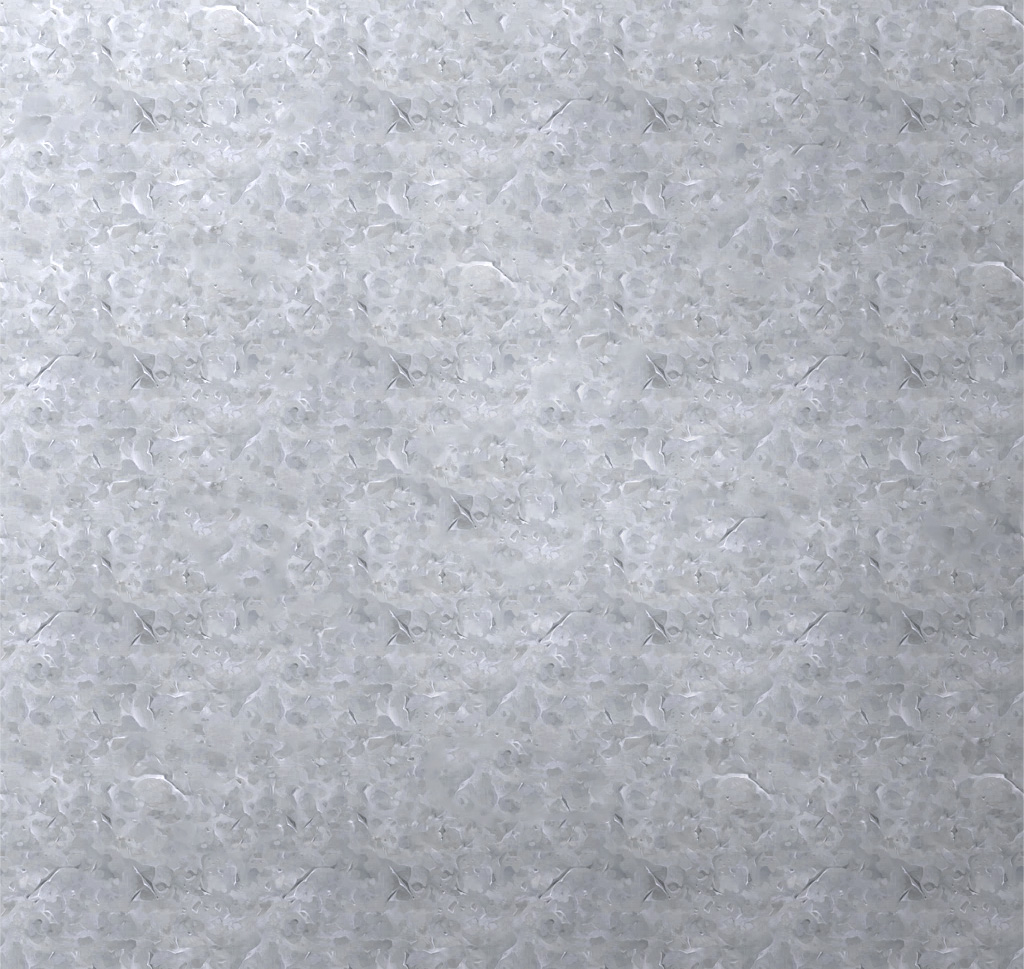
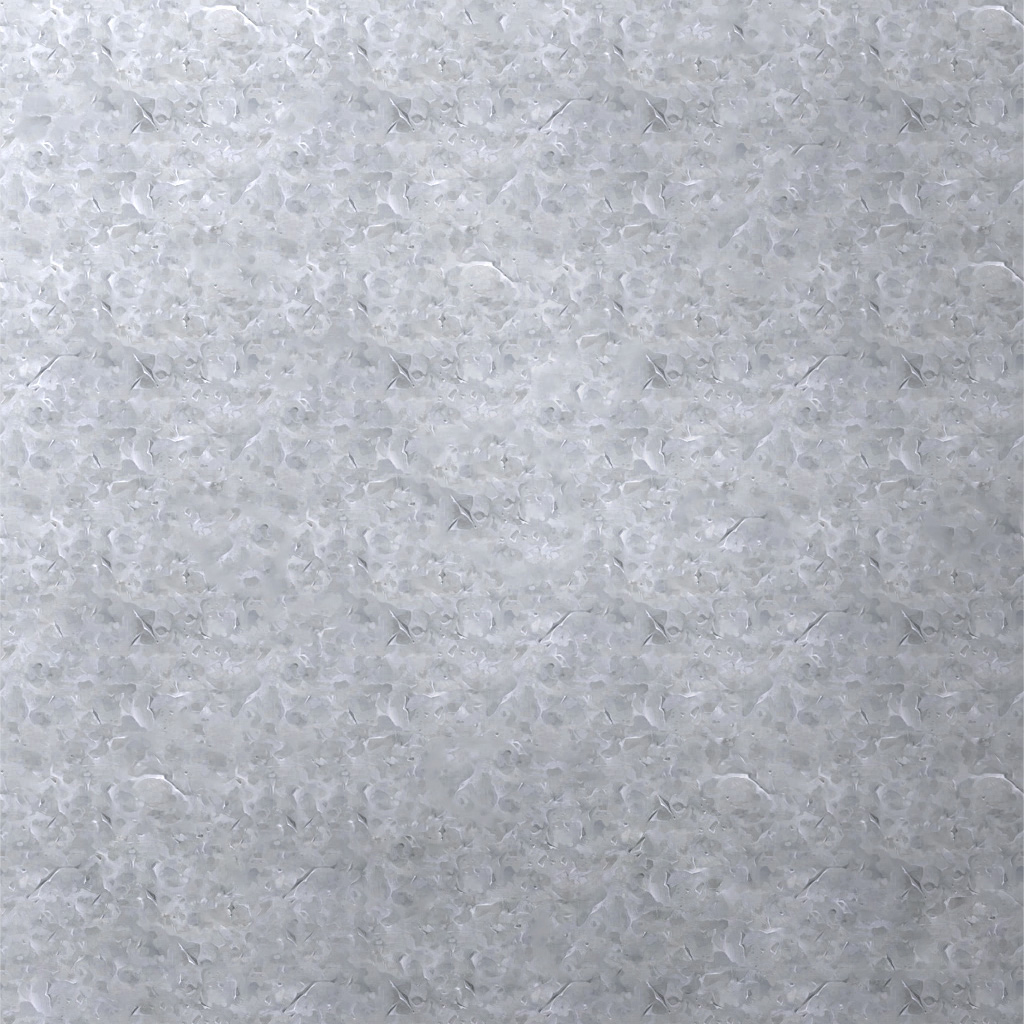
Шахматы убраны

diff --git a/core/src/com/interdev/dstrike/screens/game/GameScreen.java b/core/src/com/interdev/dstrike/screens/game/GameScreen.java
@@ -22,7 +22,9 @@ import com.interdev.dstrike.screens.game.ui.UI;
 public class GameScreen implements Screen, GestureDetector.GestureListener {
     public static int tickInterval = 0; //инициализируется повторно с сервера
 
+    public static final int battleFieldTiles = 2;
     public static float personalFieldWidth, personalFieldHeight;
+    public static float totalFieldWidth, totalFieldHeight;
 
     public boolean screenLoaded = false;
 
@@ -30,8 +32,6 @@ public class GameScreen implements Screen, GestureDetector.GestureListener {
     public UI ui;
     public float virutalWidth;
     public float virutalHeight;
-    private float totalFieldWidth;
-    private float totalFieldHeight;
 
     private float zoom;
     private float initialZoom = 1f;
@@ -41,8 +41,10 @@ public class GameScreen implements Screen, GestureDetector.GestureListener {
     public OrthographicCameraWithVirtualViewport camera;
     private InputMultiplexer inputMultiplexer;
 
-    private Texture battlefieldBgTexture;
-    private Texture personalFieldBgTexture;
+    private Texture battlefieldBgTexture = new Texture(Gdx.files.internal("bg_tile.jpg"));
+    private Texture platformTexture = new Texture(Gdx.files.internal("platform.jpg"));
+    private Texture platformTopTexture = new Texture(Gdx.files.internal("platform_top.png"));
+
 
     private Stage mainStage;
     private Base myBase, enemyBase;
@@ -53,17 +55,16 @@ public class GameScreen implements Screen, GestureDetector.GestureListener {
     @Override
     public void show() {
         Main.gameScreenReference = this;
-        Log.info("Main.gameScreenReference = this");
-
-        initTextures();
 
         multipleVirtualViewportBuilder = new MultipleVirtualViewportBuilder(480, 800, 720, 1280);
         virtualViewport = multipleVirtualViewportBuilder.getVirtualViewport(Gdx.graphics.getWidth(), Gdx.graphics.getHeight());
         camera = new OrthographicCameraWithVirtualViewport(virtualViewport);
         virutalWidth = (int) virtualViewport.getVirtualWidth();
         virutalHeight = (int) virtualViewport.getVirtualHeight();
+
         totalFieldWidth = battlefieldBgTexture.getWidth();
-        totalFieldHeight = battlefieldBgTexture.getHeight() + personalFieldBgTexture.getWidth();
+        totalFieldHeight = battlefieldBgTexture.getHeight() * battleFieldTiles + platformTexture.getHeight();
+
         zoom = totalFieldWidth / virutalWidth;
 
         Log.info("virutalWidth " + virutalWidth + "  virutalHeight " + virutalHeight);
@@ -74,25 +75,33 @@ public class GameScreen implements Screen, GestureDetector.GestureListener {
         mainStage = new Stage();
         mainStage.getViewport().setCamera(camera);
 
+        Image platform = new Image(platformTexture);
+        platform.setPosition(0, 0);
+        mainStage.addActor(platform);
 
-        Image personalFieldBg = new Image(personalFieldBgTexture);
-        personalFieldBg.setPosition(0, 0);
-        mainStage.addActor(personalFieldBg);
 
-        personalFieldWidth = personalFieldBg.getWidth();
-        personalFieldHeight = personalFieldBg.getHeight();
+        personalFieldWidth = platform.getWidth();
+        personalFieldHeight = platform.getHeight();
 
-        Image battlefieldBg = new Image(battlefieldBgTexture);
-        battlefieldBg.setPosition(personalFieldBg.getX() + 0, personalFieldBg.getY() + personalFieldBg.getHeight());
-        mainStage.addActor(battlefieldBg);
 
+        for (int i = 0; i < battleFieldTiles; i++) {
+            Image battlefieldBgTile = new Image(battlefieldBgTexture);
+            battlefieldBgTile.setPosition(platform.getX() + 0, platform.getHeight() + battlefieldBgTile.getHeight() * i);
+            mainStage.addActor(battlefieldBgTile);
+        }
+
+        Image platformTop = new Image(platformTopTexture);
+        platformTop.setPosition(0, platform.getHeight());
+        mainStage.addActor(platformTop);
+
+        float basesOffset = 0.2f;
         myBase = new Base();
-        myBase.setPosition(battlefieldBg.getWidth() / 2, battlefieldBg.getY() + battlefieldBg.getHeight() * 0.06f);
+        myBase.setPosition(totalFieldWidth / 2, personalFieldHeight + personalFieldHeight * basesOffset);
         myBase.setRotation(180);
         mainStage.addActor(myBase);
 
         enemyBase = new Base();
-        enemyBase.setPosition(battlefieldBg.getWidth() / 2, battlefieldBg.getY() + battlefieldBg.getHeight() * 0.94f);
+        enemyBase.setPosition(totalFieldWidth / 2, totalFieldHeight - personalFieldHeight * basesOffset);
         mainStage.addActor(enemyBase);
 
         inputMultiplexer = new InputMultiplexer();
@@ -107,11 +116,6 @@ public class GameScreen implements Screen, GestureDetector.GestureListener {
         screenLoaded = true;
     }
 
-    private void initTextures() {
-        battlefieldBgTexture = new Texture(Gdx.files.internal("battlefield_bg.jpg"));
-        personalFieldBgTexture = new Texture(Gdx.files.internal("personal_field_bg.png"));
-
-    }
 
     @Override
     public void render(float delta) {
@@ -136,9 +140,9 @@ public class GameScreen implements Screen, GestureDetector.GestureListener {
                     PackedCell cell = player.packedCells[i][j];
                     if (cell != null) {
                         if (cell.free) {
-                            cellImage.setColor(1f,1f,1f,1f);
+                            cellImage.setColor(1f, 1f, 1f, 1f);
                         } else {
-                            cellImage.setColor(1f,0.5f,0.5f,1f);
+                            cellImage.setColor(1f, 0.5f, 0.5f, 1f);
                         }
                         cellImage.setPosition(cell.x, cell.y);
                         cellImage.draw(batch, 1f);

diff --git a/core/src/com/interdev/dstrike/screens/game/ActiveUnit.java b/core/src/com/interdev/dstrike/screens/game/ActiveUnit.java
@@ -24,7 +24,7 @@ public class ActiveUnit extends Actor {
     public ActiveUnit(float x, float y, short type, int id) {
         this.type = type;
         this.id = id;
-        setPosition(x,y);
+        setPosition(x, y);
 
         targetX = x;
         targetY = y;
@@ -45,14 +45,14 @@ public class ActiveUnit extends Actor {
         lastX = targetX;
         lastY = targetY;
 
-        int cellX = (int) (x/64);
-        int cellY = (int) (y/64);
+        //      int cellX = (int) (x/64);
+        //       int cellY = (int) (y/64);
 
-        targetX = cellX*64 + 32;
-        targetY = cellY*64 + 32;
-
-        //   targetX = x;
-     //   targetY = y;
+        //      targetX = cellX*64 + 32;
+        //     targetY = cellY*64 + 32;
+//
+        targetX = x;
+        targetY = y;
 
     }
 
@@ -61,7 +61,7 @@ public class ActiveUnit extends Actor {
         super.act(deltaTime);
         timeFromLastTargetXYUpdate += deltaTime;
 
-        float percent = timeFromLastTargetXYUpdate/(GameScreen.tickInterval/1000f);
+        float percent = timeFromLastTargetXYUpdate / (GameScreen.tickInterval / 1000f);
         if (percent > 1f) percent = 1f;
 
         setX(Interpolation.linear.apply(lastX, targetX, percent));
@@ -71,7 +71,7 @@ public class ActiveUnit extends Actor {
 
     @Override
     public void draw(Batch batch, float alpha) {
-        batch.draw(textureRegion, getX() - getWidth()/2, getY() - getHeight()/2, getOriginX(), getOriginY(), getWidth(), getHeight(), getScaleX(), getScaleY(), getRotation());
+        batch.draw(textureRegion, getX() - getWidth() / 2, getY() - getHeight() / 2, getOriginX(), getOriginY(), getWidth(), getHeight(), getScaleX(), getScaleY(), getRotation());
     }
 
 }
